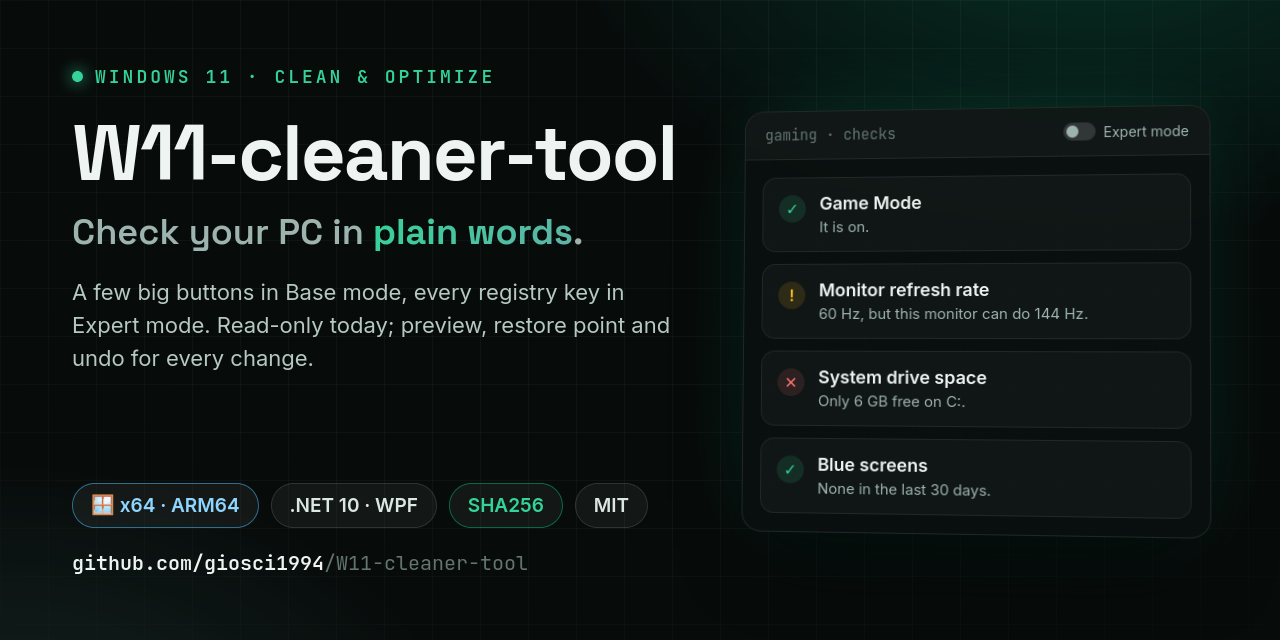
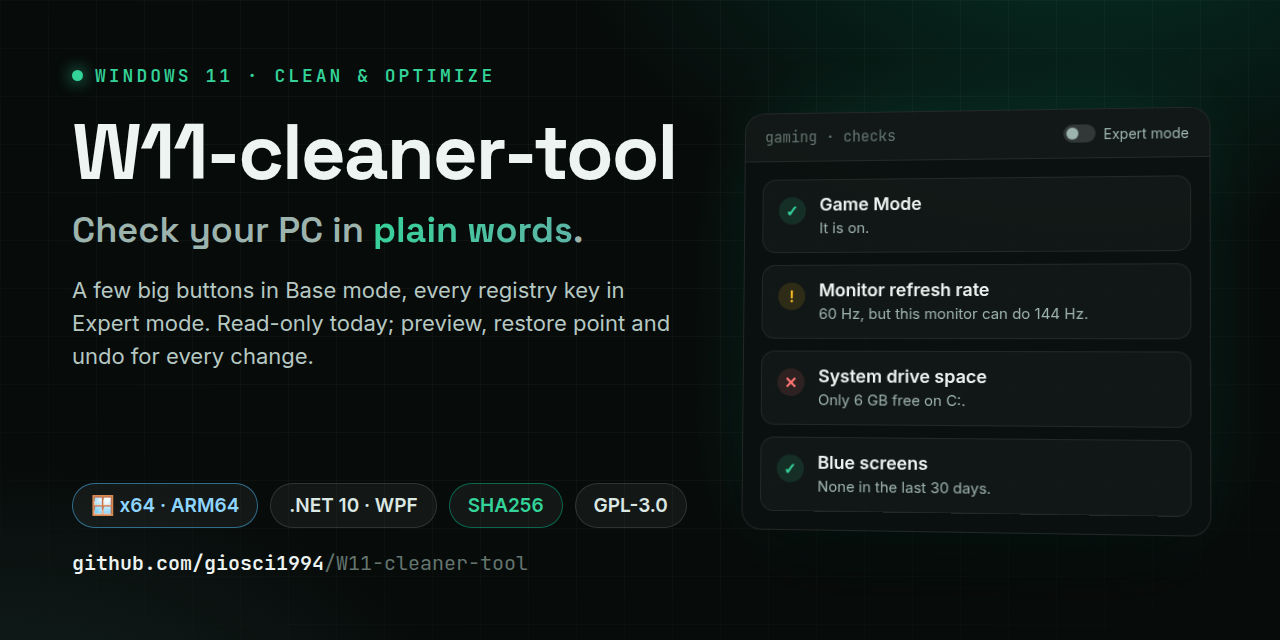
docs(license): update social preview and piano.md to GPL-3.0

diff --git a/docs/social-preview.html b/docs/social-preview.html
@@ -167,7 +167,7 @@
           <span class="badge win">🪟 x64 · ARM64</span>
           <span class="badge">.NET 10 · WPF</span>
           <span class="badge green">SHA256</span>
-          <span class="badge">MIT</span>
+          <span class="badge">GPL-3.0</span>
         </div>
         <div class="repo"><b>github.com/giosci1994</b>/W11-cleaner-tool</div>
       </div>

diff --git a/docs/piano.md b/docs/piano.md
@@ -54,9 +54,9 @@ Proposto il 18/11/2026 dall'ingegnere. Ogni punto si approva con «fallo tu» o 
 4. All'apertura, se SmartScreen avvisa: «Ulteriori informazioni» → «Esegui comunque».
 5. La prima build non cambia niente sul PC. Dalle funzioni che modificano in poi: prova prima in **Windows Sandbox** (solo Windows 11 Pro) o almeno con un punto di ripristino.
 
-## 7 · Licenza MIT
-- File `LICENSE` con `Copyright (c) 2026 <nome>`: il nome è da scegliere (il nome vero, il nome utente di GitHub, oppure «W11-cleaner-tool contributors»). Resta visibile quando il repository diventa pubblico.
-- Nei repository pubblici del proprietario: l'unico MIT ha il nome completo nel copyright; i commit sono firmati con il nome di battesimo e l'email noreply. I file comuni (SECURITY, CONTRIBUTING, CODE_OF_CONDUCT) arrivano già dal repository `.github` dell'account: qui non si ripetono.
+## 7 · Licenza GPL-3.0
+- Dal 22/11/2026 la licenza è passata da MIT a **GNU GPL-3.0** (file `LICENSE` con testo ufficiale GPL-3.0).
+- I file comuni (SECURITY, CONTRIBUTING, CODE_OF_CONDUCT) arrivano già dal repository `.github` dell'account: qui non si ripetono.
 
 ## 8 · Prima del primo commit
 - In `docs/decisioni.md` due righe citano un nome proprio («scelta di …»): si sostituisce con «scelta del proprietario», così la storia pubblica non lo contiene.
